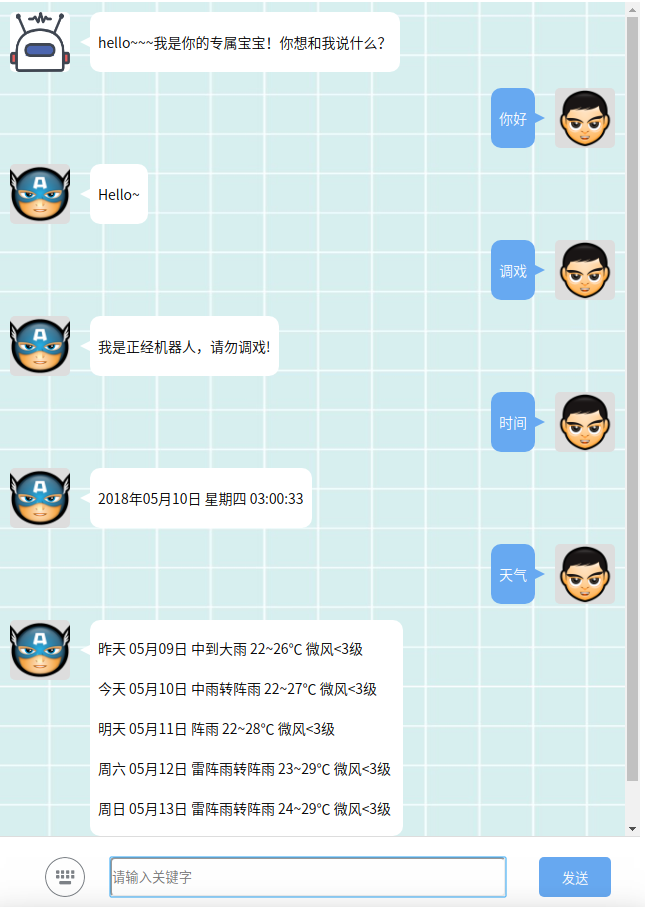
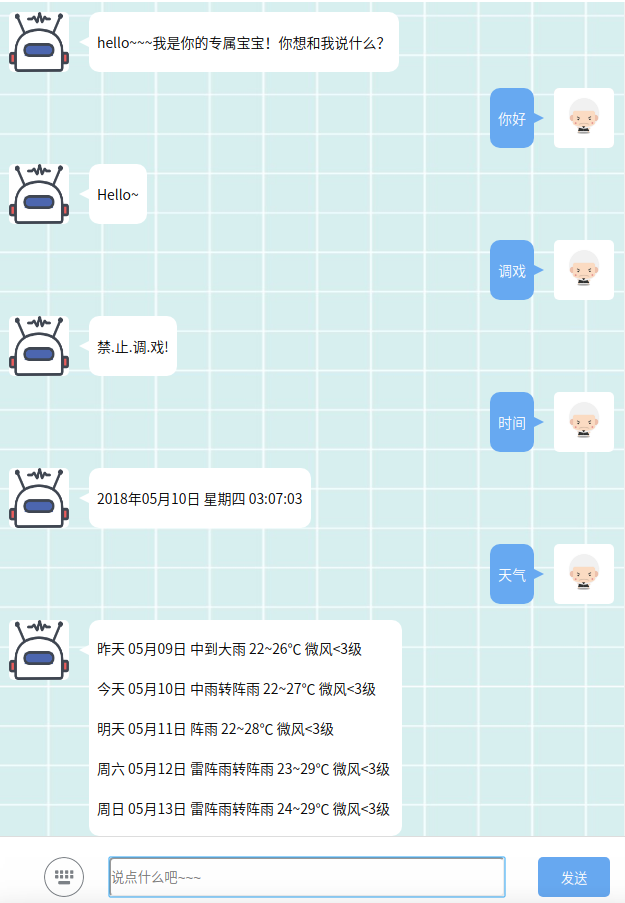
修改图片

diff --git a/core/web/templates/index.html b/core/web/templates/index.html
@@ -33,7 +33,7 @@
         </a>
     </div>
     <div class="chat_box left">
-        <input type="text" onKeyUp="key_up()" placeholder="请输入关键字"/>
+        <input type="text" onKeyUp="key_up()" placeholder="说点什么吧~~~"/>
     </div>
     <div class="rectangle right">
         <button onClick="send_message()">发送</button>
